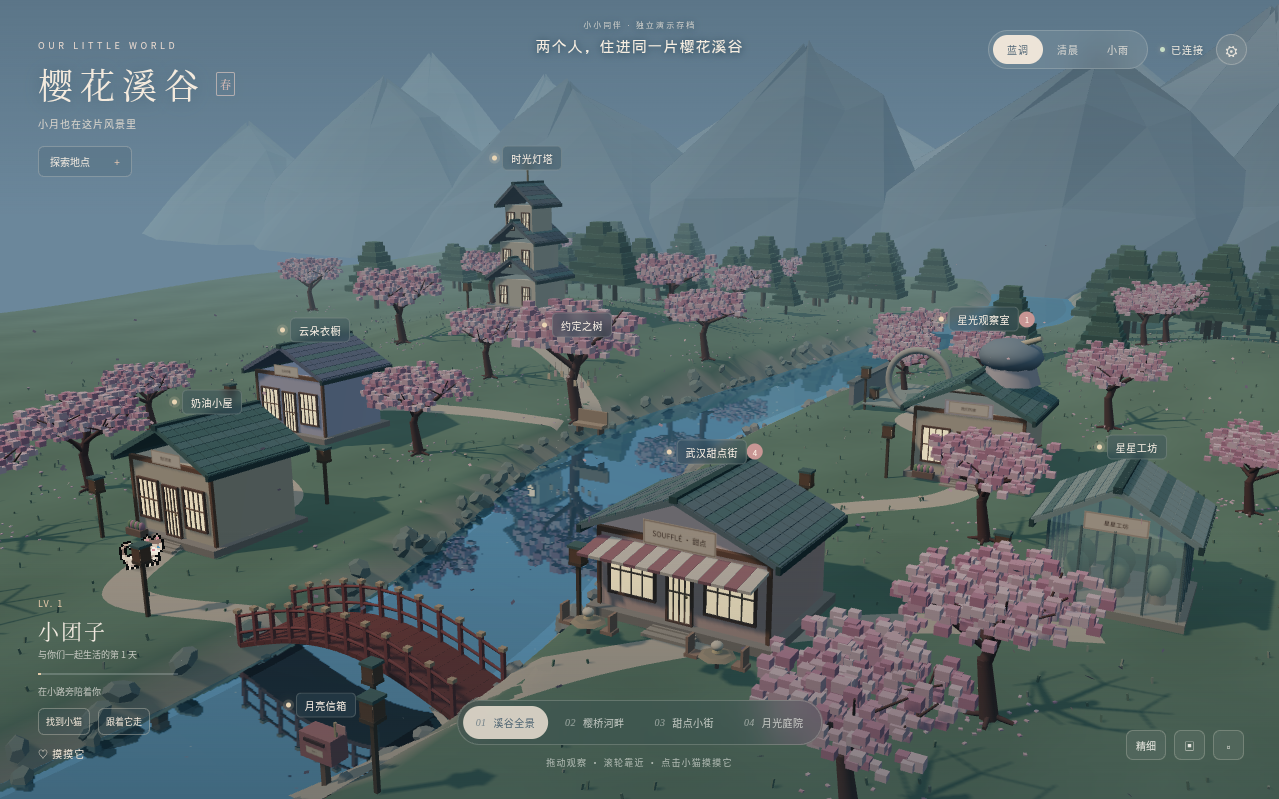
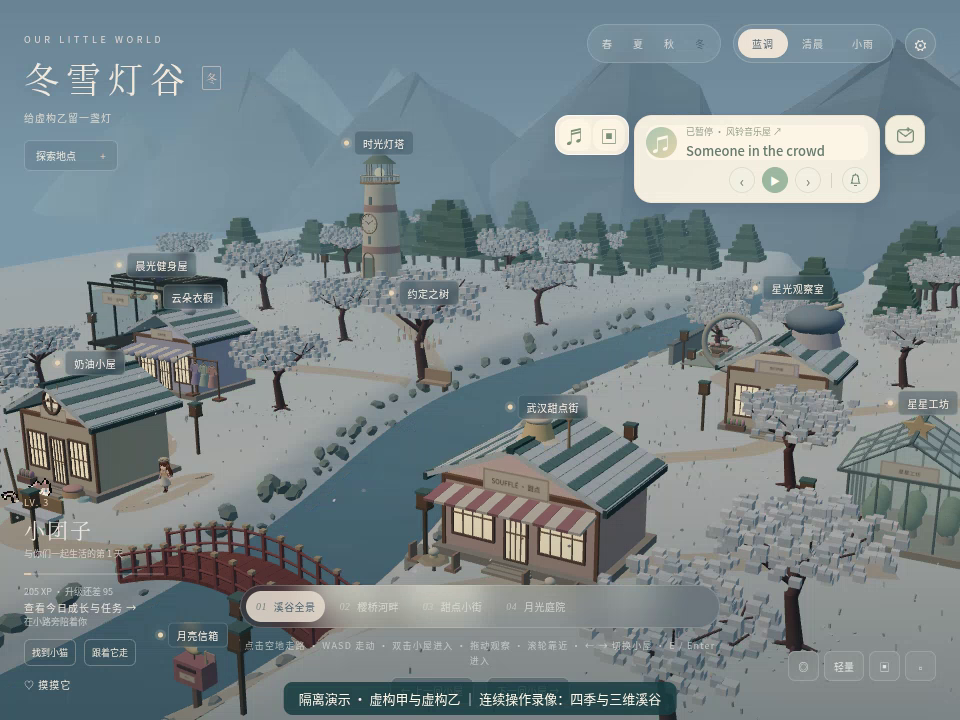
docs: update 0.4.9 homepage and index all published versions

diff --git a/README.md b/README.md
@@ -2,22 +2,31 @@
 
 送你一只小猫，也送你一个一起长大的小世界。
 
-**[下载 Windows 版 · 约 133 MB](https://github.com/ZhengyuWang123/our-little-one-downloads/releases/latest/download/windows.zip)**
+当前稳定版：**0.4.9**（2026-10-20）。本版修复完整试玩发现的 13 类交互问题。
 
-[查看最新版和安装说明](https://github.com/ZhengyuWang123/our-little-one-downloads/releases/latest) · [看功能演示 · 3 分 32 秒](https://github.com/ZhengyuWang123/our-little-one-downloads/releases/latest/download/demo.mp4)
+**[下载 Windows 安装版 · 约 123 MB](https://github.com/ZhengyuWang123/our-little-one-downloads/releases/download/v0.4.9/little-one-0.4.9-win-x64.exe)**
 
-![小小同伴的樱花溪谷](preview.png)
+[查看最新版与全部附件](https://github.com/ZhengyuWang123/our-little-one-downloads/releases/latest) · [历史版本与更新说明](RELEASES.md) · [110 秒实际演示](https://github.com/ZhengyuWang123/our-little-one-downloads/releases/download/v0.4.9/demo.mp4)
 
-## 第一次走进小窝
+![小小同伴 0.4.9 实际游戏画面](preview.png)
 
-1. 下载后把压缩包**全部解压**，保留文件夹内所有文件。
-2. 进入 `win-unpacked` 文件夹，双击 `小小同伴.exe`。
-3. 填入私发的同步地址和配对码，再写下你的名字。
+## 安装和进入小窝
 
-下载文件保存在 GitHub，主人电脑关机时也可以下载安装，不需要登录 GitHub。她不用安装 Tailscale，也不用登录 Codex。
+1. Windows 推荐下载安装版 exe，运行后按提示进入小窝。也可下载本版 `windows.zip`，完整解压后运行 `win-unpacked/小小同伴.exe`。
+2. 首次进入时填写主人私下分享的配对信息和你的名字。已配对的用户升级时继续使用原有小窝，不要删除存档目录。
+3. 升级前等待发送完成、保存草稿并正常退出旧版；升级后核对设置中的版本。
 
-首次配对及两人共养、聊天同步仍需主人电脑和小小同伴运行。已经配对后，离线期间可以查看缓存，动作会等待恢复连接后同步。
+下载无需登录 GitHub。双方联网后通过独立云服务同步，共养和聊天不要求主人电脑保持运行，也不要求安装 Tailscale。自己的 Codex 登录只用于可选的本机分析和制作功能。
 
-当前为 Windows x64 0.3.0 测试包，由 Linux 交叉打包，尚未在真实 Windows 电脑上验证。下载文件不包含配对码、聊天或存档。
+## 0.4.9 更新
 
-[校验文件完整性（SHA-256）](https://github.com/ZhengyuWang123/our-little-one-downloads/releases/latest/download/sha256sums.txt)
+- 房间内设置可以正常点击，Esc 按当前面板层级关闭；关闭小游戏后停止计时。
+- 健身资料、食物纠错和共享名字保存期间，继续编辑的内容不会被迟到回执覆盖。
+- 愿望、想法、纪念册与观察室避免同一待提交草稿重复入队。
+- 修复游戏屋访问记录、通话恢复提示、离线反馈和空工坊状态；保留现有配对、历史记录与 64 张分类图片表情。
+
+本轮走查 14 地点、30 功能入口及三款双人游戏完整流程；本地 757 通过、2 环境跳过，Windows CI 758 通过、1 跳过，云端 30/30，均无失败。原生 Windows CI 与独立打包启动通过，女友本人电脑、异地双物理设备、真人音视频仍待实际验收。首次冷进入家园的录制曾有约 11 秒捕获断档，原因尚待定位；成功重录不表示这条性能线索已解决。
+
+附件不包含私人配对码、聊天和存档。源码与内部验收资料在独立私有仓库维护，本仓库保存公开安装包、演示与逐版更新记录。
+
+[本版 SHA-256 校验表](https://github.com/ZhengyuWang123/our-little-one-downloads/releases/download/v0.4.9/sha256sums.txt)

diff --git a/RELEASES.md b/RELEASES.md
@@ -1,0 +1,24 @@
+# 小小同伴历史版本
+
+当前正式版本为 **0.4.9**。每版链接包含该次更新说明、实际上传的安装包及附件；旧版本保留。
+
+[下载最新版](https://github.com/ZhengyuWang123/our-little-one-downloads/releases/latest) · [返回首页](README.md)
+
+| 版本 | 发布日期（UTC） | 更新说明 | 附件数 |
+| --- | --- | --- | --- |
+| [v0.4.9](https://github.com/ZhengyuWang123/our-little-one-downloads/releases/tag/v0.4.9) | 2026-10-20 | 小小同伴 0.4.9 · 完整试玩后的交互修复 | 10 |
+| [v0.4.8](https://github.com/ZhengyuWang123/our-little-one-downloads/releases/tag/v0.4.8) | 2026-10-20 | 小小同伴 0.4.8 | 10 |
+| [v0.4.7](https://github.com/ZhengyuWang123/our-little-one-downloads/releases/tag/v0.4.7) | 2026-10-20 | 小小同伴 0.4.7 | 10 |
+| [v0.4.6](https://github.com/ZhengyuWang123/our-little-one-downloads/releases/tag/v0.4.6) | 2026-10-19 | 小小同伴 0.4.6 | 10 |
+| [v0.4.5](https://github.com/ZhengyuWang123/our-little-one-downloads/releases/tag/v0.4.5) | 2026-10-19 | 小小同伴 0.4.5 | 10 |
+| [v0.4.4](https://github.com/ZhengyuWang123/our-little-one-downloads/releases/tag/v0.4.4) | 2026-10-19 | 小小同伴 0.4.4 · 完整小窝与云端工作台 | 10 |
+| [v0.4.3](https://github.com/ZhengyuWang123/our-little-one-downloads/releases/tag/v0.4.3) | 2026-10-19 | 小小同伴 0.4.3 · 把小窝补完整 | 10 |
+| [v0.4.1](https://github.com/ZhengyuWang123/our-little-one-downloads/releases/tag/v0.4.1) | 2026-10-13 | 小小同伴 0.4.1 · 小窝独立亮着 | 7 |
+| [v0.4.0](https://github.com/ZhengyuWang123/our-little-one-downloads/releases/tag/v0.4.0) | 2026-10-13 | 小小同伴 0.4.0 · 小窝变大了 | 9 |
+| [v0.3.2](https://github.com/ZhengyuWang123/our-little-one-downloads/releases/tag/v0.3.2) | 2026-10-13 | 小小同伴 0.3.2 · 阳光田园大衣帽间 | 5 |
+| [v0.3.1](https://github.com/ZhengyuWang123/our-little-one-downloads/releases/tag/v0.3.1) | 2026-10-13 | 小小同伴 0.3.1 · 小窝慢慢长大了 | 5 |
+| [v0.3.0](https://github.com/ZhengyuWang123/our-little-one-downloads/releases/tag/v0.3.0) | 2026-10-10 | 小小同伴 0.3.0 · Windows 下载 | 5 |
+
+0.4.2 是未完成正式发布的历史草稿，未列为可用正式版本；原有开发记录保留，后续正式版本从 0.4.3 继续。
+
+源码版本与内部验证由独立私有仓库维护。公开安装包可下载不等于女友真实电脑、异地双端和真人音视频已经验收，具体范围以各版更新说明为准。
